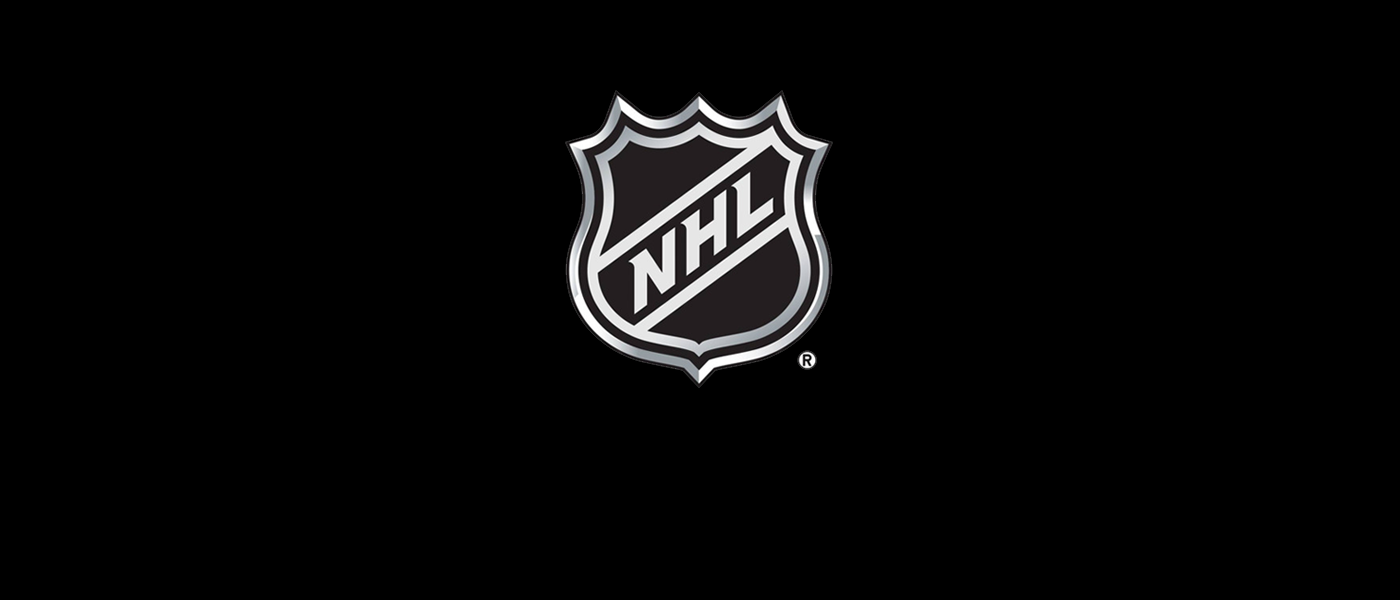
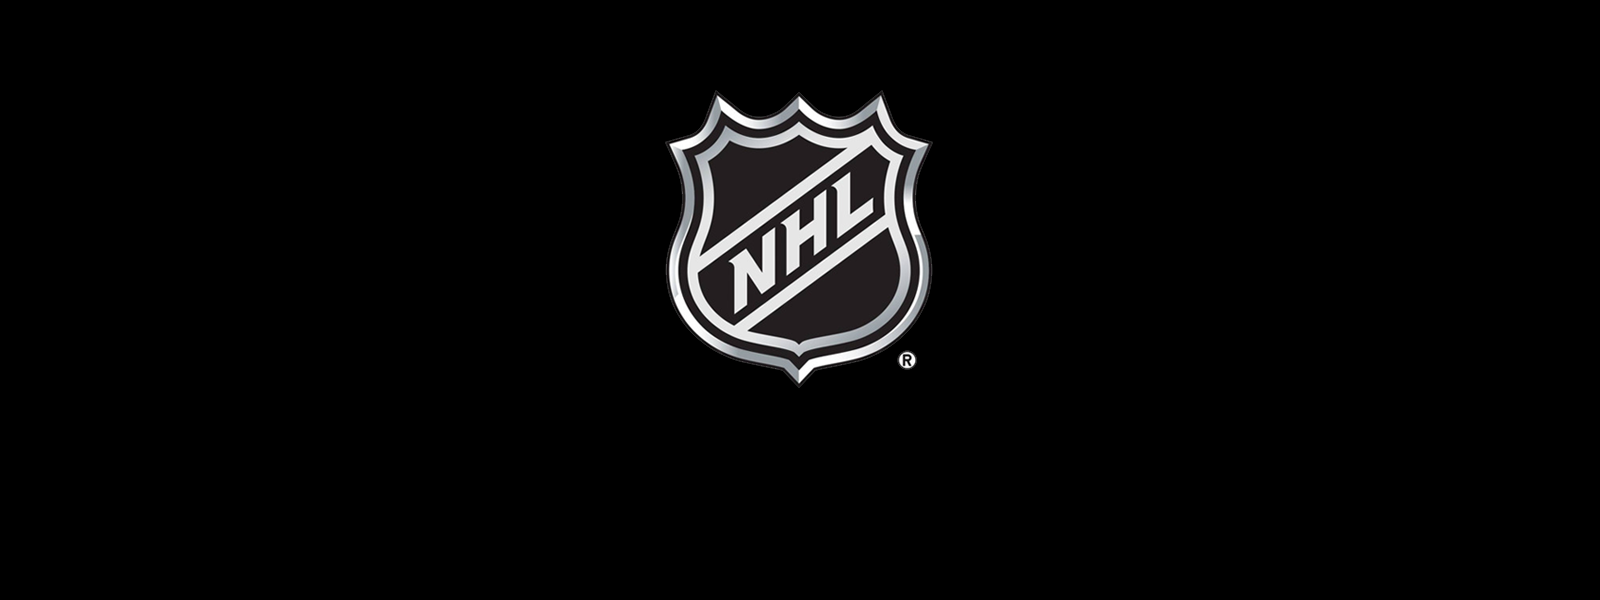
update

Changed region(s): [[0.3993, 0.15, 0.6143, 0.63]]

diff --git a/src/components/Character/Character.css b/src/components/Character/Character.css
@@ -1,11 +1,11 @@
 .card {
-  border: 3px solid #d7d7d7;
   box-shadow: 0 3px 6px rgba(0, 0, 0, 0.16), 0 3px 6px rgba(0, 0, 0, 0.23);
+  border-radius: 100px;
   cursor: pointer;
-  height: 170px;
+  height: auto;
   margin: 15px;
   overflow: hidden;
-  width: 170px;
+  width: 200px;
 }
 
 .card:hover {
@@ -15,7 +15,7 @@
 }
 
 .card-img-top {
-  border-radius: 0;
+  border-radius: 100px;
 }
 
 .card-height {

diff --git a/src/components/Banner/Banner.js b/src/components/Banner/Banner.js
@@ -3,7 +3,7 @@ import './Banner.css';
 
 const Banner = () => (
   <div className="banner text-center d-flex align-items-center justify-content-center">
-    <p className="m-0">Select a player to build a team, but don't click on any more than once!</p>
+    <p className="m-0">Select a player to build a team, but don't click on any player more than once!</p>
   </div>
 );
 

diff --git a/src/components/Banner/Banner.css b/src/components/Banner/Banner.css
@@ -1,5 +1,9 @@
 .banner {
-  background-image: url('../../images/bg.png') !important;
+  background-image: url('../../images/bg.png');
+  background-repeat: no-repeat;
+  background-size: 1600px auto;
+  background-position: center top;
+  width: 100%;
   height: 400px;
   margin: 0 !important;
   padding: 0 !important;

diff --git a/src/components/Container/Container.css b/src/components/Container/Container.css
@@ -3,10 +3,10 @@
   margin-bottom: 40px;
 }
 
-@media (min-width: 1100px) {
+@media (min-width: 1200px) {
   .container {
     padding: 0 100px;
-    width: 1100px;
+    width: 1200px;
   }
 }
 
